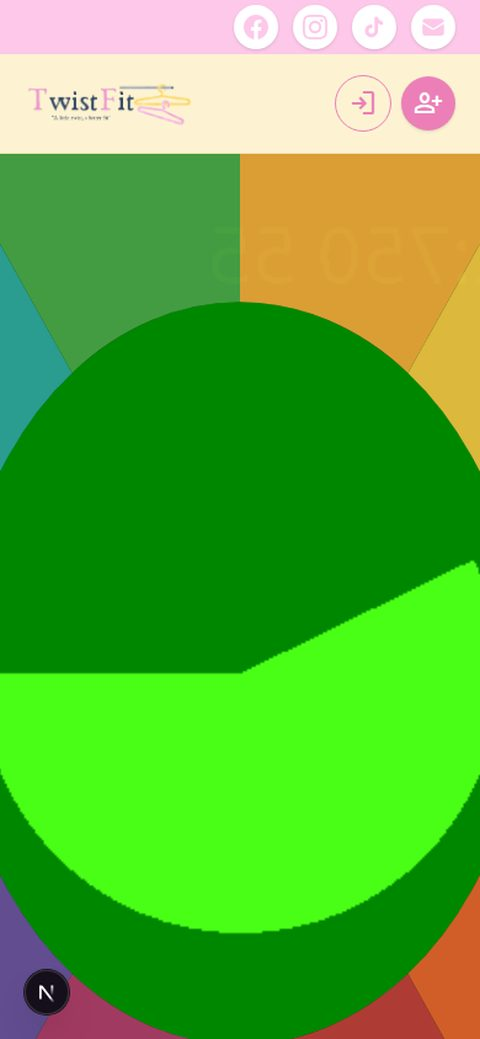
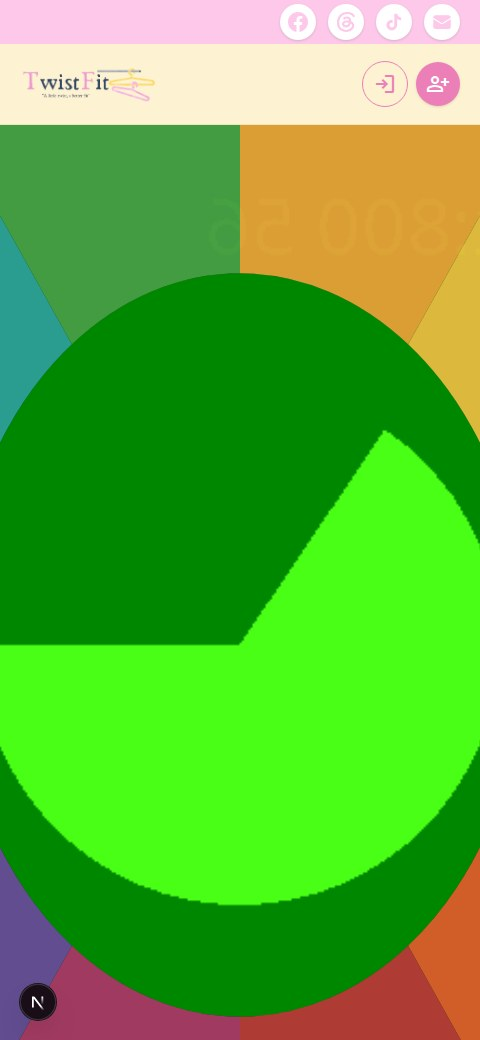
feat(home): drop community steps, use real photos for outfit flow steps
The community/forum feature was removed from the homepage feature
showcase carousel, and the outfit flow step captions were rewritten
to reflect the real 3-step process (choose garment, pick model, view
result) with matching real photos instead of stock illustrations.

diff --git a/components/home/FeatureShowcase.test.tsx b/components/home/FeatureShowcase.test.tsx
@@ -17,7 +17,6 @@ describe('FeatureShowcase', () => {
     renderShowcase()
     expect(screen.getByRole('heading', { name: 'Màu sắc cá nhân' })).toBeInTheDocument()
     expect(screen.queryByRole('heading', { name: 'Phối đồ' })).not.toBeInTheDocument()
-    expect(screen.queryByRole('heading', { name: 'Diễn đàn' })).not.toBeInTheDocument()
   })
 
   it('opens the QR modal from the Personal Color CTA', () => {
@@ -36,9 +35,7 @@ describe('FeatureShowcase', () => {
   it('wraps around from the last feature back to the first', () => {
     renderShowcase()
     fireEvent.click(screen.getByRole('button', { name: 'Xem tính năng tiếp theo' }))
-    fireEvent.click(screen.getByRole('button', { name: 'Xem tính năng tiếp theo' }))
-    expect(screen.getByRole('heading', { name: 'Diễn đàn' })).toBeInTheDocument()
-    expect(screen.getByRole('link', { name: 'Khám Phá Diễn Đàn' })).toHaveAttribute('href', '/forum')
+    expect(screen.getByRole('heading', { name: 'Phối đồ' })).toBeInTheDocument()
 
     fireEvent.click(screen.getByRole('button', { name: 'Xem tính năng tiếp theo' }))
     expect(screen.getByRole('heading', { name: 'Màu sắc cá nhân' })).toBeInTheDocument()
@@ -47,13 +44,13 @@ describe('FeatureShowcase', () => {
   it('wraps around from the first feature back to the last with the previous arrow', () => {
     renderShowcase()
     fireEvent.click(screen.getByRole('button', { name: 'Xem tính năng trước' }))
-    expect(screen.getByRole('heading', { name: 'Diễn đàn' })).toBeInTheDocument()
+    expect(screen.getByRole('heading', { name: 'Phối đồ' })).toBeInTheDocument()
   })
 
   it('jumps directly to a feature when its dot is clicked', () => {
     renderShowcase()
-    fireEvent.click(screen.getByRole('button', { name: 'Xem tính năng: Diễn đàn' }))
-    expect(screen.getByRole('heading', { name: 'Diễn đàn' })).toBeInTheDocument()
-    expect(screen.getByRole('button', { name: 'Xem tính năng: Diễn đàn' })).toHaveAttribute('aria-current', 'true')
+    fireEvent.click(screen.getByRole('button', { name: 'Xem tính năng: Phối đồ' }))
+    expect(screen.getByRole('heading', { name: 'Phối đồ' })).toBeInTheDocument()
+    expect(screen.getByRole('button', { name: 'Xem tính năng: Phối đồ' })).toHaveAttribute('aria-current', 'true')
   })
 })

diff --git a/lib/featureShowcaseSteps.ts b/lib/featureShowcaseSteps.ts
@@ -1,4 +1,4 @@
-export type FeatureKey = 'colorTest' | 'outfit' | 'community'
+export type FeatureKey = 'colorTest' | 'outfit'
 
 export type FeatureStepImage = {
   key: string
@@ -12,14 +12,8 @@ export const FEATURE_STEP_IMAGES = {
     { key: 'ar', src: '/home/feature-steps/color-test-ar.jpg' },
   ],
   outfit: [
-    { key: 'digitizeCloset', src: '/home/feature-steps/outfit-digitize-closet.jpg' },
-    { key: 'setPreferences', src: '/home/feature-steps/outfit-set-preferences.jpg' },
-    { key: 'chooseModel', src: '/home/feature-steps/outfit-choose-model.jpg' },
-    { key: 'getOutfit', src: '/home/feature-steps/outfit-get-outfit.jpg' },
-  ],
-  community: [
-    { key: 'share', src: '/home/feature-steps/community-share.jpg' },
-    { key: 'connect', src: '/home/feature-steps/community-connect.jpg' },
-    { key: 'save', src: '/home/feature-steps/community-save.jpg' },
+    { key: 'chooseGarment', src: '/home/feature-steps/outfit-choose-garment.jpg' },
+    { key: 'modelAndFace', src: '/home/feature-steps/outfit-model-and-face.jpg' },
+    { key: 'viewResult', src: '/home/feature-steps/outfit-view-result.jpg' },
   ],
 } as const satisfies Record<FeatureKey, FeatureStepImage[]>

diff --git a/components/home/FeatureShowcase.tsx b/components/home/FeatureShowcase.tsx
@@ -9,7 +9,6 @@ import type { FeatureKey } from '@/lib/featureShowcaseSteps'
 const FEATURES: { key: FeatureKey; accentClassName: string }[] = [
   { key: 'colorTest', accentClassName: 'text-secondary' },
   { key: 'outfit', accentClassName: 'text-primary' },
-  { key: 'community', accentClassName: 'text-tertiary' },
 ]
 
 export default function FeatureShowcase() {
@@ -21,7 +20,6 @@ export default function FeatureShowcase() {
   const ctaByFeature: Record<FeatureKey, { label: string; onClick?: () => void; href?: string }> = {
     colorTest: { label: t('features.colorTest.cta'), onClick: openQrModal },
     outfit: { label: t('features.outfit.cta'), href: '/outfit/step-1' },
-    community: { label: t('features.community.cta'), href: '/forum' },
   }
 
   function goToPrevious() {

diff --git a/lib/featureShowcaseSteps.test.ts b/lib/featureShowcaseSteps.test.ts
@@ -4,8 +4,7 @@ import { FEATURE_STEP_IMAGES } from './featureShowcaseSteps'
 describe('featureShowcaseSteps', () => {
   it('has the right number of steps per feature', () => {
     expect(FEATURE_STEP_IMAGES.colorTest).toHaveLength(3)
-    expect(FEATURE_STEP_IMAGES.outfit).toHaveLength(4)
-    expect(FEATURE_STEP_IMAGES.community).toHaveLength(3)
+    expect(FEATURE_STEP_IMAGES.outfit).toHaveLength(3)
   })
 
   it('uses unique keys within each feature', () => {
